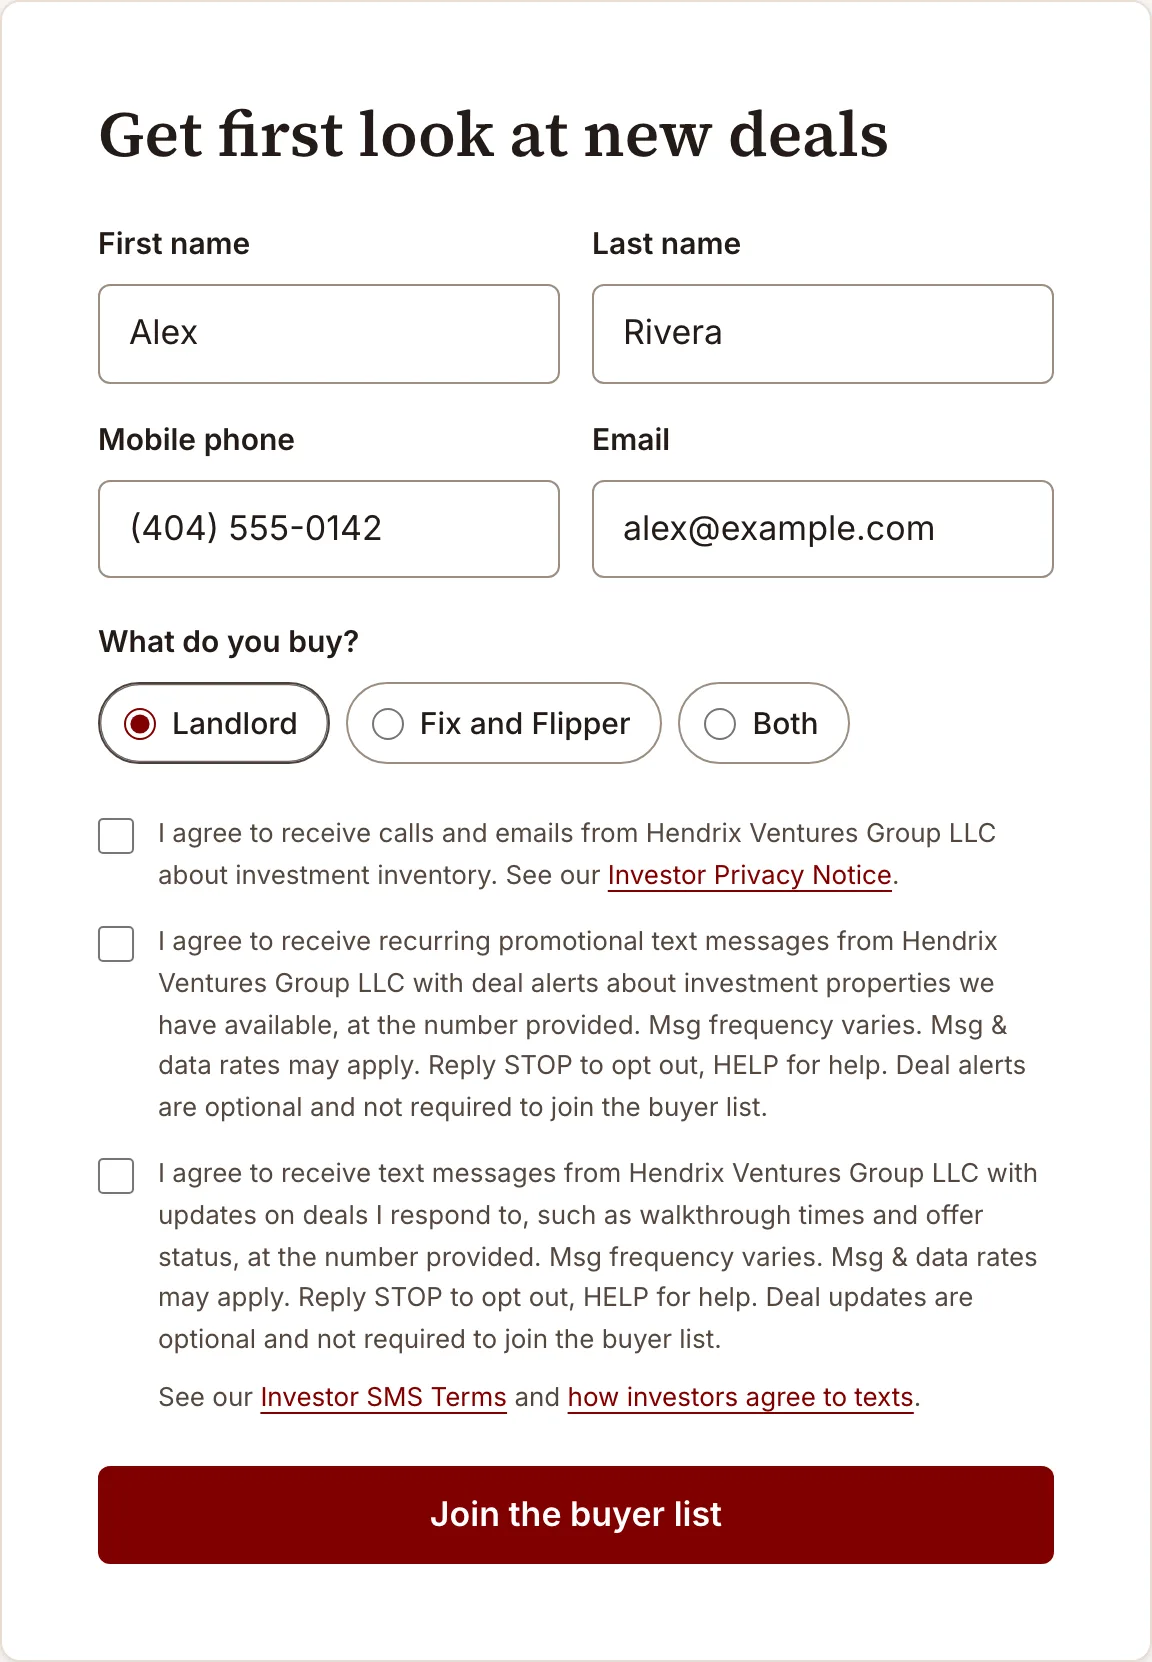
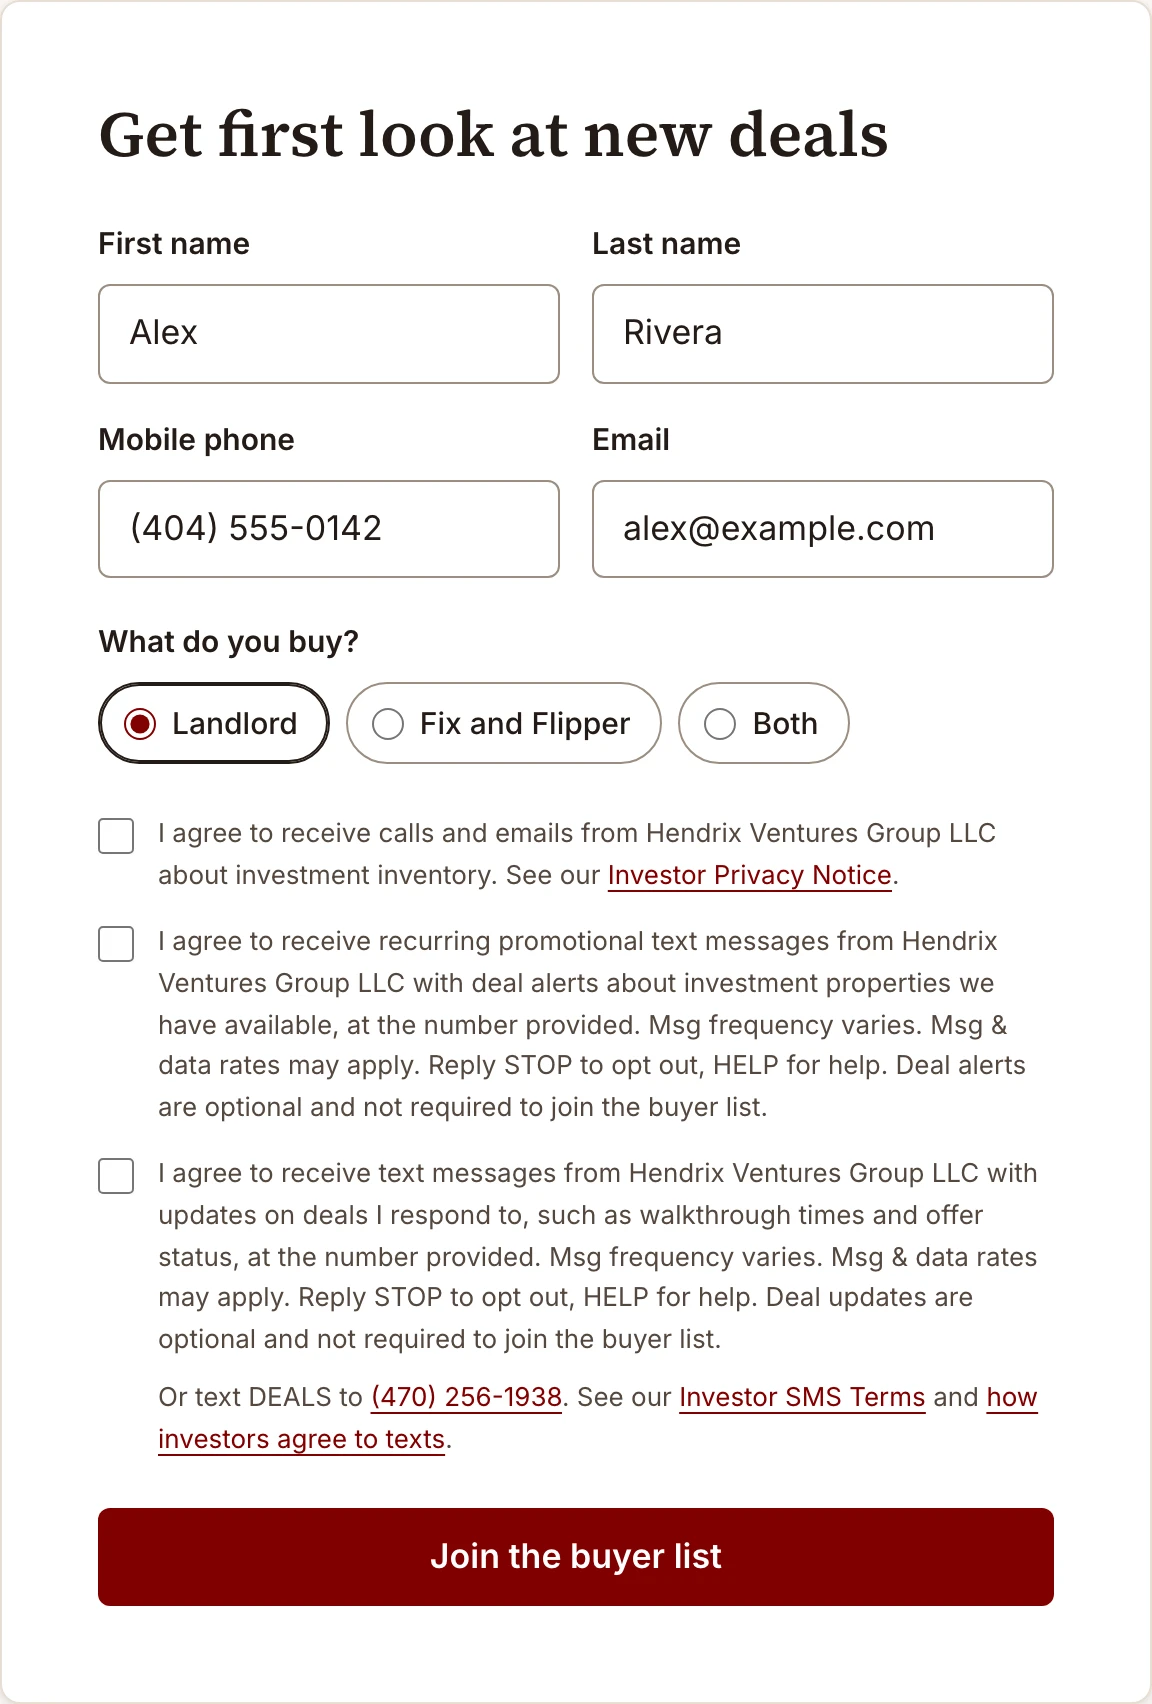
Buyer line: show "text DEALS to (470) 256-1938", without the call and email invitations yet (#19)
The buyer line was bought on 2026-11-11 and sits on the new "Buyers" Messaging
Service. Setting BUYER_LINE_E164 turns on the keyword door across the investor
pages: "Or text DEALS to (470) 256-1938" beside the form's boxes, the DEALS
section of /investor-text-consent, and the DEALS lines of /investor-sms-terms
and /investor-privacy. The form screenshot is re-shot from the production
build so it shows that line.

The DEALS section also said we invite investors to text DEALS at the end of
our calls, in voicemails and in one-to-one emails, and that we call from the
buyer line. None of that is true yet, so a new BUYER_LINE_INVITES switch keeps
those paragraphs off until it is (owner, 2026-11-11: publish the keyword
alone first). A browser test checks they stay hidden while it is off and show
once it is on.

Seller pages don't use the buyer line, so they don't change.

diff --git a/src/data/consent.ts b/src/data/consent.ts
@@ -32,12 +32,19 @@ export const BUYER_DEAL_UPDATES_CONSENT_VERSION = "2026-11-11.1";
 export const BUYER_DEAL_UPDATES_CONSENT_TEXT =
   "I agree to receive text messages from Hendrix Ventures Group LLC with updates on deals I respond to, such as walkthrough times and offer status, at the number provided. Msg frequency varies. Msg & data rates may apply. Reply STOP to opt out, HELP for help. Deal updates are optional and not required to join the buyer list.";
 
-// ⚖ The buyer line, in E.164 ("+14705550123"). Empty until the number is
-// bought, answers DEALS with the confirmation text, and sits in the "Buyers"
-// Messaging Service; while empty the site never mentions texting DEALS.
-// Setting it changes /investors, so re-shoot the /investor-text-consent
-// screenshot then too.
-export const BUYER_LINE_E164 = "";
+// ⚖ The buyer line, in E.164. Bought 2026-11-11 and on the "Buyers" Messaging
+// Service, whose Advanced Opt-Out answers DEALS with the confirmation text once
+// the investor campaign is approved (an unregistered number sends nothing).
+// While empty the site never mentions texting DEALS. Changing it changes
+// /investors, so re-shoot the /investor-text-consent screenshot then too.
+export const BUYER_LINE_E164 = "+14702561938";
+
+// ⚖ Whether we invite investors to text DEALS at the end of our calls, in our
+// voicemails and in one-to-one emails. Off until each is true: buyer calls go
+// out from the buyer line (so "this number" is the one on their screen) and the
+// email carries the exact tap-to-text line on /investor-text-consent (owner,
+// 2026-11-11: publish the keyword alone first).
+export const BUYER_LINE_INVITES = false;
 
 export function buyerLine(e164: string) {
   if (!e164) return null;

diff --git a/tests/e2e/investor.spec.ts b/tests/e2e/investor.spec.ts
@@ -4,6 +4,7 @@ import {
   BUYER_DEAL_ALERTS_CONSENT_TEXT,
   BUYER_DEAL_UPDATES_CONSENT_TEXT,
   BUYER_LINE,
+  BUYER_LINE_INVITES,
 } from "../../src/data/consent";
 
 const MOCK_DEALS = [
@@ -295,6 +296,20 @@ test("/investor-text-consent describes the written-request door", async ({
   await expect(door).toContainText(
     "A spoken request is never recorded as an opt-in."
   );
+});
+
+// The evidence page may say we invite DEALS on calls, voicemails and emails only
+// once we do: until then the keyword door is the website line alone.
+test("/investor-text-consent mentions call, voicemail and email invitations only once they are on", async ({
+  page,
+}) => {
+  await page.goto("/investor-text-consent/");
+  const page_ = page.locator("section.legal");
+  const invites = [/at\s+the\s+end\s+of\s+our\s+calls/, /voicemail/i, /We\s+call\s+from\s+the\s+buyer\s+line/, /Tap\s+here\s+to\s+text\s+DEALS/, /one-to-one\s+emails/];
+  for (const line of invites) {
+    if (BUYER_LINE && BUYER_LINE_INVITES) await expect(page_).toContainText(line);
+    else await expect(page_).not.toContainText(line);
+  }
 });
 
 // Until the buyer line is bought, no page may invite anyone to text DEALS.

diff --git a/README.md b/README.md
@@ -72,5 +72,5 @@ This section has moved here: [https://facebook.github.io/create-react-app/docs/t
 ## TODO
 
 - **Investor texting.** The buyer-list signup (`src/islands/BuyerSignup.tsx`) has the investor deal-texts opt-ins: two optional boxes, deal alerts (marketing) and deal updates (informational), each with its own wording and version in `src/data/consent.ts`, since Twilio rejects one box covering both (error 30913). `/investor-text-consent`, `/investor-sms-terms` and `/investor-privacy` describe them, and the third door, a written request the owner records on the dotato buyer card (https://linear.app/hendrixventures/issue/DOT-496). Still to do before that A2P campaign is submitted (dotato `docs/a2p-buyer-campaign-draft.md`, https://linear.app/hendrixventures/issue/DOT-492):
-  - Once the buyer line is bought and answers DEALS, set `BUYER_LINE_E164` in `src/data/consent.ts`. That turns on "Or text DEALS to …" on `/investors` and the DEALS sections of the investor pages. Before setting it, confirm that every claim those sections make is true: calls come from the buyer line, the call and voicemail script, and the one-to-one email's exact wording (`/investor-text-consent`).
-  - Then re-shoot `public/investor-text-consent-form.webp` from the live form, so the screenshot shows the DEALS line too.
+  - The buyer line, (470) 256-1938, is set in `BUYER_LINE_E164` (bought 2026-11-11, on the "Buyers" Messaging Service). It turns on "Or text DEALS to …" on `/investors` and the DEALS sections of the investor pages, and the form screenshot shows it. Twilio answers DEALS only once the campaign is approved.
+  - `BUYER_LINE_INVITES` stays `false` until each claim it turns on is true: buyer calls go out from the buyer line, the call and voicemail script, and the one-to-one email's exact wording (`/investor-text-consent`). Turning it on changes what the campaign registration describes.
